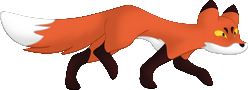
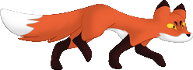
small changes

diff --git a/main/src/main/Main.java b/main/src/main/Main.java
@@ -20,7 +20,7 @@ public static int level = 1;
 public static int room = 1;
 public static Random rand = new Random();		//variable for random movement
 public static boolean run = false;				//movements are made when run == true, then run ist set to false until painted
-public static boolean ingame = true;			//ingame == false while in menu
+public static boolean ingame = false;			//ingame == false while in menu
 public static boolean shop = false;				//can shop be openend?
 public static boolean music = true;				//music on/off
 public static boolean go = false;
@@ -50,7 +50,7 @@ public static void main(String[] args) throws IOException
 
 		System.out.println("done");
 		
-				Game game = new Game();										//creates Game logic		
+		Game game = new Game();										//creates Game logic		
 		game.start();												//starts Game logic
 		
 		System.out.println("initializing gameobjects");
@@ -75,6 +75,7 @@ public static void main(String[] args) throws IOException
 		{
 			if (go == true)											//wait boolean from Gui to start
 			{
+				Main.ingame = true;
 				window.startNow();									//sets MasterFrame
 				onOff = false;										//if started once cannot start again
 			}

diff --git a/main/src/local/Create.java b/main/src/local/Create.java
@@ -54,18 +54,18 @@ public class Create {
 	}
 	
 	// reads level file and creates game objects
-	public static void create_room(){
+	public static void create_room() throws IOException{
 		String zeileninhalt =""; // line content of a level file
 		int zeilenlaenge =0;
 		int zeile;
 		
-		try
-		{
+//		try
+//		{
 			temp.clear();
 			temp.add(0,new int[]{0,0,0,0,0,0});
 			temp.add(1,new int[]{0,0,0,0,0,0});
 			temp.add(2,new int[]{0,0,0,0,0,0});
-			temp.add(3,new int[]{0,0,-2000,-2000,0,0});
+			temp.add(3,new int[]{3,0,-2000,-2000,0,0});
 			npc = 0;
 			shop = 0;
 			
@@ -166,9 +166,9 @@ public class Create {
 			br.close();
 			//copy to obj_list
 			Main.obj_list = temp;
-		} catch (IOException e) {
-			System.out.println("Fehler: " + e.getMessage());
-		}
+//		} catch (IOException e) {
+//			System.out.println("Fehler: " + e.getMessage());
+//		}
 	}
 
 	//restores Main.obj_list if player dies

diff --git a/main/src/gameobjects/Fox.java b/main/src/gameobjects/Fox.java
@@ -8,8 +8,8 @@ import main.Main;
 public class Fox extends Figure {
 
 	@Override public Image getPic(int direction){
-		if(direction == 2) return local.Pics.fox_r;
-		else return local.Pics.fox_r;
+		if(direction == 2 || direction == 1) return local.Pics.fox_r;
+		else return local.Pics.fox_l;
 	}
 
 	@Override public int getHp(){
@@ -26,8 +26,8 @@ public class Fox extends Figure {
 		this.ep = 1;
 		this.bugs = 1;
 		this.destroyable = true;
-		this.height = local.Pics.fox_l.getHeight(null);
-		this.width = local.Pics.fox_l.getWidth(null);
+		this.height = local.Pics.fox_r.getHeight(null);
+		this.width = local.Pics.fox_r.getWidth(null);
 	}
 
 }

diff --git a/main/src/movement/AI.java b/main/src/movement/AI.java
@@ -10,7 +10,7 @@ public class AI {
 
 	//uses move on all opponents
 	public static void move_all_opp(){
-		for(int i = 5 ; i < Main.obj_list.size() ; i++){
+		for(int i = 4 ; i < Main.obj_list.size() ; i++){
 			if(Main.obj_list.get(i)[0] == 6 || Main.obj_list.get(i)[0] == 7) move(Main.obj_list.get(i));
 		}
 	}
